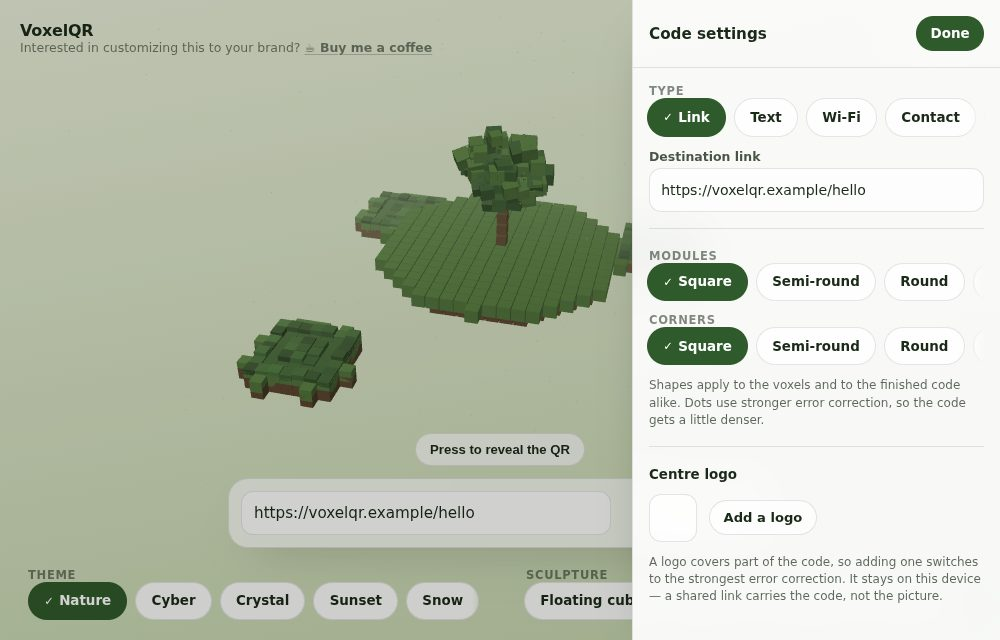
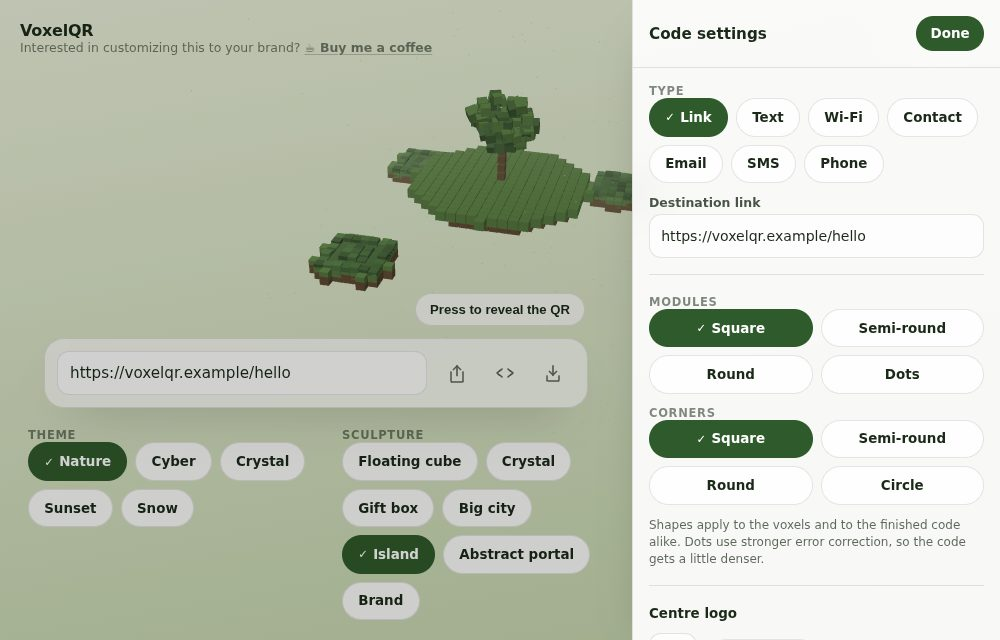
Wrap chip rows instead of scrolling them out of reach
The settings drawer's Type, Modules and Corners rows overflowed and the
options past the fade could not be reached. The rows are horizontal
scrollers with the scrollbar hidden, which is an affordance only a finger
has: a mouse cannot pan a row, and a wheel scrolls the page instead. The
faded right edge then reads as broken padding rather than as "there is
more this way".

Measured at 1280px: the drawer's Type row held 586px of chips in a 339px
box, Modules 407px and Corners 415px.

The same defect was already in the footer, unreported: the Sculpture row
held 783px of chips in 590px, so Abstract portal and Brand were out of
reach of every pointer device on a normal desktop.

Both fixed by not requiring a scroll where there is room to wrap:

- The drawer's rows always wrap; the four shapes get a 2x2 grid, since
  four peers breaking 3+1 reads as a mistake rather than a layout.
- The footer's rows wrap on a fine pointer only. On a phone they stay a
  single line a thumb sweeps through, because wrapping them there would
  spend screen the sculpture needs.

Also: while the drawer is open above phone width the panel gives up that
width, so the footer's last chips are no longer half-hidden underneath
it — which looked like options cut off rather than covered.

Two regression tests assert the real invariant rather than the CSS: no
chip row in the drawer, or in the footer at desktop width, has anything
scrolled out of reach, and the last sculpture is clickable where it says
it is.
[…]

diff --git a/src/styles/app.css b/src/styles/app.css
@@ -470,6 +470,58 @@ body {
   display: none;
 }
 
+/**
+ * Wrapped chips: every option on screen, no scroller at all.
+ *
+ * A hidden scrollbar is an affordance only a finger has. A mouse cannot pan a
+ * horizontal row — a wheel scrolls the page, not the row — so on a pointer
+ * device the options past the fade were simply unreachable, and the faded edge
+ * read as broken padding rather than as "there is more this way". Where the
+ * options fit on two short lines, they belong on two short lines.
+ */
+.chips[data-wrap='true'] {
+  flex-wrap: wrap;
+  overflow-x: visible;
+  row-gap: var(--space-2);
+  padding: 2px;
+  -webkit-mask-image: none;
+  mask-image: none;
+  scroll-snap-type: none;
+  touch-action: auto;
+}
+
+/* Equal columns, for a small set of peers that would otherwise break unevenly. */
+.chips[data-columns='true'] {
+  display: grid;
+  grid-template-columns: repeat(var(--chip-columns, 2), minmax(0, 1fr));
+}
+
+.chips[data-columns='true'] .chip {
+  justify-content: center;
+  padding: 0 0.6rem;
+}
+
+/**
+ * The same reasoning, applied by input device rather than by container.
+ *
+ * The footer rows are a deliberate scroller: on a phone they are one line the
+ * thumb sweeps through, and wrapping them would spend screen the sculpture
+ * needs. But a fine pointer cannot sweep, so on those devices they wrap too —
+ * the Sculpture row overflows a 1280px desktop, which put its last options out
+ * of reach of a mouse entirely.
+ */
+@media (hover: hover) and (pointer: fine) {
+  .chips {
+    flex-wrap: wrap;
+    overflow-x: visible;
+    row-gap: var(--space-2);
+    padding: 2px;
+    -webkit-mask-image: none;
+    mask-image: none;
+    scroll-snap-type: none;
+  }
+}
+
 .chip {
   flex: 0 0 auto;
   display: inline-flex;
@@ -922,5 +974,15 @@ textarea.field-control {
   .drawer {
     width: 100vw;
     border-left: 0;
+  }
+}
+
+/* Wider than a phone the drawer sits beside the page rather than over it, so
+   the panel gives up the width instead of running underneath. Without this the
+   footer's last chips sit under the drawer, which reads as options that have
+   been cut off rather than covered. */
+@media (min-width: 30.0625rem) {
+  .app[data-drawer='open'] .panel {
+    padding-right: calc(23rem + var(--space-4));
   }
 }

diff --git a/src/components/controls/ChipGroup.tsx b/src/components/controls/ChipGroup.tsx
@@ -1,4 +1,5 @@
 import { useId } from 'react';
+import type { CSSProperties } from 'react';
 
 export interface ChipOption<T extends string> {
   id: T;
@@ -12,6 +13,18 @@ export interface ChipGroupProps<T extends string> {
   options: readonly ChipOption<T>[];
   onChange: (value: T) => void;
   disabled?: boolean;
+  /**
+   * Wrap onto as many lines as the options need, rather than scrolling
+   * sideways. For a group in a narrow column, where a row that runs off the
+   * edge has nowhere useful to go.
+   */
+  wrap?: boolean;
+  /**
+   * Lay the chips out in this many equal columns instead of letting them wrap
+   * where they fall. For a small set of peers — four shapes — where an
+   * uneven break reads as a mistake rather than as a layout.
+   */
+  columns?: number;
 }
 
 /**
@@ -19,7 +32,8 @@ export interface ChipGroupProps<T extends string> {
  *
  * Selection is communicated by `aria-checked` and by a check glyph, never by
  * colour alone, and the whole group is reachable with arrow keys through native
- * radio semantics.
+ * radio semantics — which is also the escape hatch that keeps a row of chips
+ * usable however it is laid out.
  */
 export function ChipGroup<T extends string>({
   legend,
@@ -27,13 +41,22 @@ export function ChipGroup<T extends string>({
   options,
   onChange,
   disabled = false,
+  wrap = false,
+  columns,
 }: ChipGroupProps<T>) {
   const groupId = useId();
 
   return (
     <fieldset className="option-group" disabled={disabled}>
       <legend className="option-legend">{legend}</legend>
-      <div className="chips" role="radiogroup" aria-label={legend}>
+      <div
+        className="chips"
+        data-wrap={wrap || columns ? 'true' : 'false'}
+        role="radiogroup"
+        aria-label={legend}
+        {...(columns ? { style: { '--chip-columns': columns } as CSSProperties } : {})}
+        data-columns={columns ? 'true' : 'false'}
+      >
         {options.map((option) => (
           <button
             key={option.id}

diff --git a/tests/e2e/config-drawer.spec.ts b/tests/e2e/config-drawer.spec.ts
@@ -58,6 +58,34 @@ test.describe('code settings drawer', () => {
     );
   });
 
+  test('shows every option without a sideways scroll', async ({ page }) => {
+    // The rows used to be horizontal scrollers with the scrollbar hidden, which
+    // is an affordance only a finger has: a mouse cannot pan a row and a wheel
+    // scrolls the page instead, so on a pointer device every option past the
+    // faded edge was simply unreachable — and the fade read as broken padding
+    // rather than as "there is more this way". They wrap now.
+    await page.getByTestId('open-config').click();
+    await page.getByTestId('config-drawer').waitFor();
+
+    const rows = await page.evaluate(() =>
+      Array.from(document.querySelectorAll('.drawer .chips')).map((row) => {
+        const box = row.getBoundingClientRect();
+        const chips = Array.from(row.children).map((chip) => chip.getBoundingClientRect());
+        return {
+          label: row.getAttribute('aria-label'),
+          clipped: row.scrollWidth - row.clientWidth,
+          widest: Math.max(...chips.map((chip) => chip.right)) - box.right,
+        };
+      }),
+    );
+
+    expect(rows.length).toBeGreaterThan(0);
+    for (const row of rows) {
+      expect(row.clipped, `${row.label} has options scrolled out of reach`).toBeLessThanOrEqual(0);
+      expect(row.widest, `${row.label} overflows its own gutter`).toBeLessThanOrEqual(1);
+    }
+  });
+
   test('keeps the caret in the field while you type', async ({ page }) => {
     // The drawer re-renders on every keystroke it collects. An effect that
     // moved focus into the panel on each of those renders would pull the caret

diff --git a/tests/e2e/layout.spec.ts b/tests/e2e/layout.spec.ts
@@ -109,3 +109,35 @@ test.describe('scan-ready on a phone', () => {
     });
   }
 });
+
+test.describe('desktop reach', () => {
+  test.use({ viewport: { width: 1280, height: 800 } });
+
+  test('every sculpture is reachable with a mouse', async ({ page }) => {
+    // The footer rows are a horizontal scroller with the scrollbar hidden,
+    // which works for a thumb and not at all for a mouse: at 1280px the
+    // sculpture row overflowed by nearly 200px, putting its last options out of
+    // reach of every pointer device. On a fine pointer the rows wrap instead.
+    await page.goto(experienceUrl({ url: LINK }));
+    await page.getByTestId('phase').waitFor({ state: 'attached' });
+
+    const rows = await page.evaluate(() =>
+      Array.from(document.querySelectorAll('.panel-footer .chips')).map((row) => ({
+        label: row.getAttribute('aria-label'),
+        clipped: row.scrollWidth - row.clientWidth,
+      })),
+    );
+
+    expect(rows.length).toBe(2);
+    for (const row of rows) {
+      expect(row.clipped, `${row.label} has options scrolled out of reach`).toBeLessThanOrEqual(0);
+    }
+
+    // And the last one is actually clickable where it says it is. Matched
+    // loosely because selecting a chip adds a check glyph to its own
+    // accessible name.
+    const brand = page.getByRole('radio', { name: /Brand/ });
+    await brand.click();
+    await expect(brand).toHaveAttribute('aria-checked', 'true');
+  });
+});

diff --git a/src/components/controls/ConfigDrawer.tsx b/src/components/controls/ConfigDrawer.tsx
@@ -103,6 +103,7 @@ export function ConfigDrawer(props: ConfigDrawerProps) {
               value={props.payloadKind}
               options={KIND_OPTIONS}
               onChange={props.onPayloadKindChange}
+              wrap
             />
             <PayloadFields
               kind={props.payloadKind}
@@ -119,12 +120,14 @@ export function ConfigDrawer(props: ConfigDrawerProps) {
               value={props.moduleShape}
               options={SHAPE_OPTIONS}
               onChange={props.onModuleShapeChange}
+              columns={2}
             />
             <ChipGroup
               legend="Corners"
               value={props.cornerShape}
               options={CORNER_OPTIONS}
               onChange={props.onCornerShapeChange}
+              columns={2}
             />
             <p className="drawer-note">
               Shapes apply to the voxels and to the finished code alike. Dots use stronger error

diff --git a/src/app/App.tsx b/src/app/App.tsx
@@ -459,7 +459,10 @@ export function App() {
   }
 
   return (
-    <div className="app">
+    // The drawer is an overlay, so the panel behind it has to be told to keep
+    // out of its way — otherwise the footer's last chips sit underneath it,
+    // which reads as options that have been cut off rather than covered.
+    <div className="app" data-drawer={configOpen ? 'open' : 'closed'}>
       {/* The interface gets out of the way once the code is scannable: anything
           overlapping the code is one more thing for a camera to trip over. */}
       <Masthead
